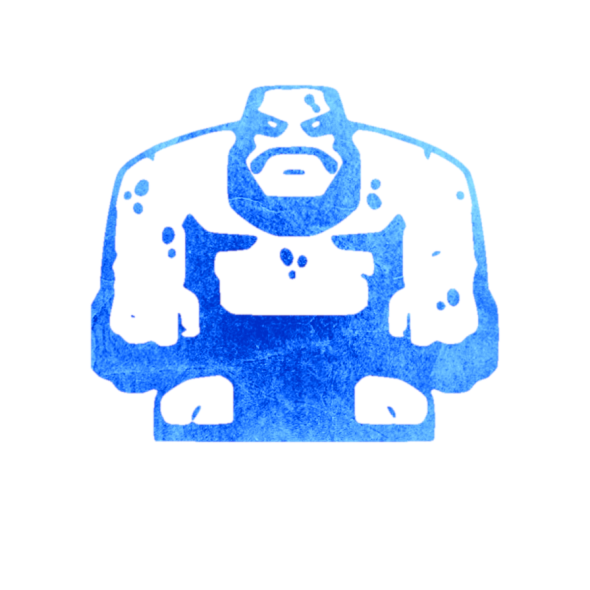
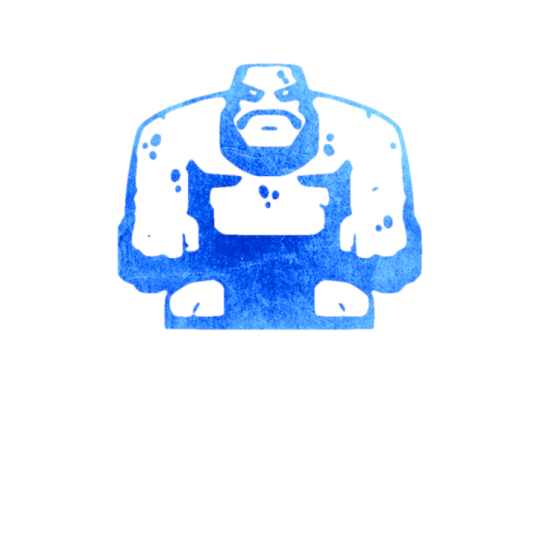
Bad images should all render in latex, although a bt smaller than others I should be able to resize them later, but I'm pedantic so want to do it right, and it'll take some extra effort.

Changed region(s): [[0.1484, 0.1187, 0.8609, 0.7718]]

diff --git a/README.md b/README.md
@@ -12,7 +12,9 @@ You need to use LuaLatex to compile as I use the \fontspec command to load the L
 
 #### Notes
 
-Some characters have images that don't load when trimmed to fit, looks like it's expansion characters added to Bra1n's townsquare after May 2021, when the Bra1n images were cleaned and standardized. This is a problem that I haven't been able to solve in Latex, and might end up solving later. Unfortunately this means that custom images also won't work well as they aren't shifted the way most of the Bra1n images are.
+Some characters have new images that don't match the old ones perfectly.It appears to be only expansion characters added to Bra1n's townsquare after May 2021, when the Bra1n images were cleaned and standardized. I've edited the relevant images, and they now show up in Latex, but are a bit undersized, and are still missing the white border and shadow of the others. I'll resize them in a bit (how I'm doing it requires some manual steps that take time), but I'm pushing this update now because I can.
+
+Also, custom images also won't work well as they aren't shifted the way the Bra1n images are. I think it's suposed to be 539x539 images with 100 pixels of nothing at the bottom, and the image centered in the above space.
 
 This should work ok with custom scripts so long as they don't share an id with anything in roles.json, except for the problem with image trimmming.
 
